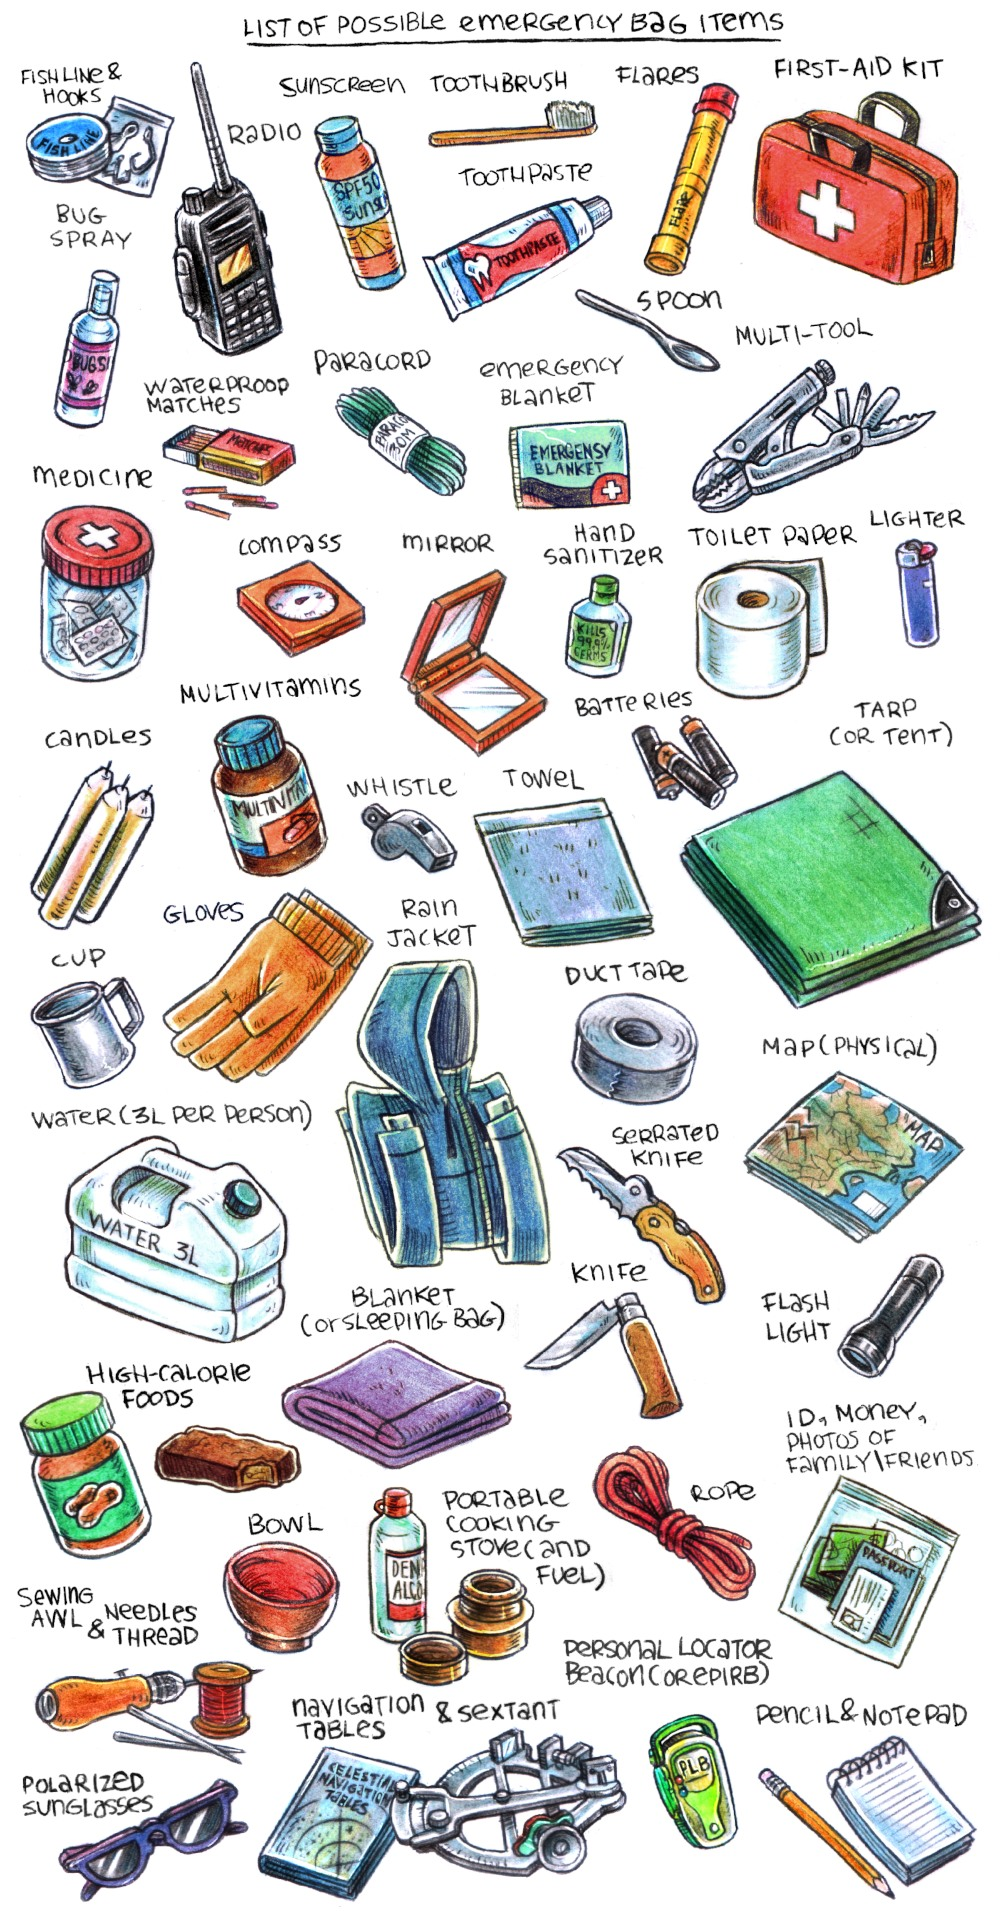
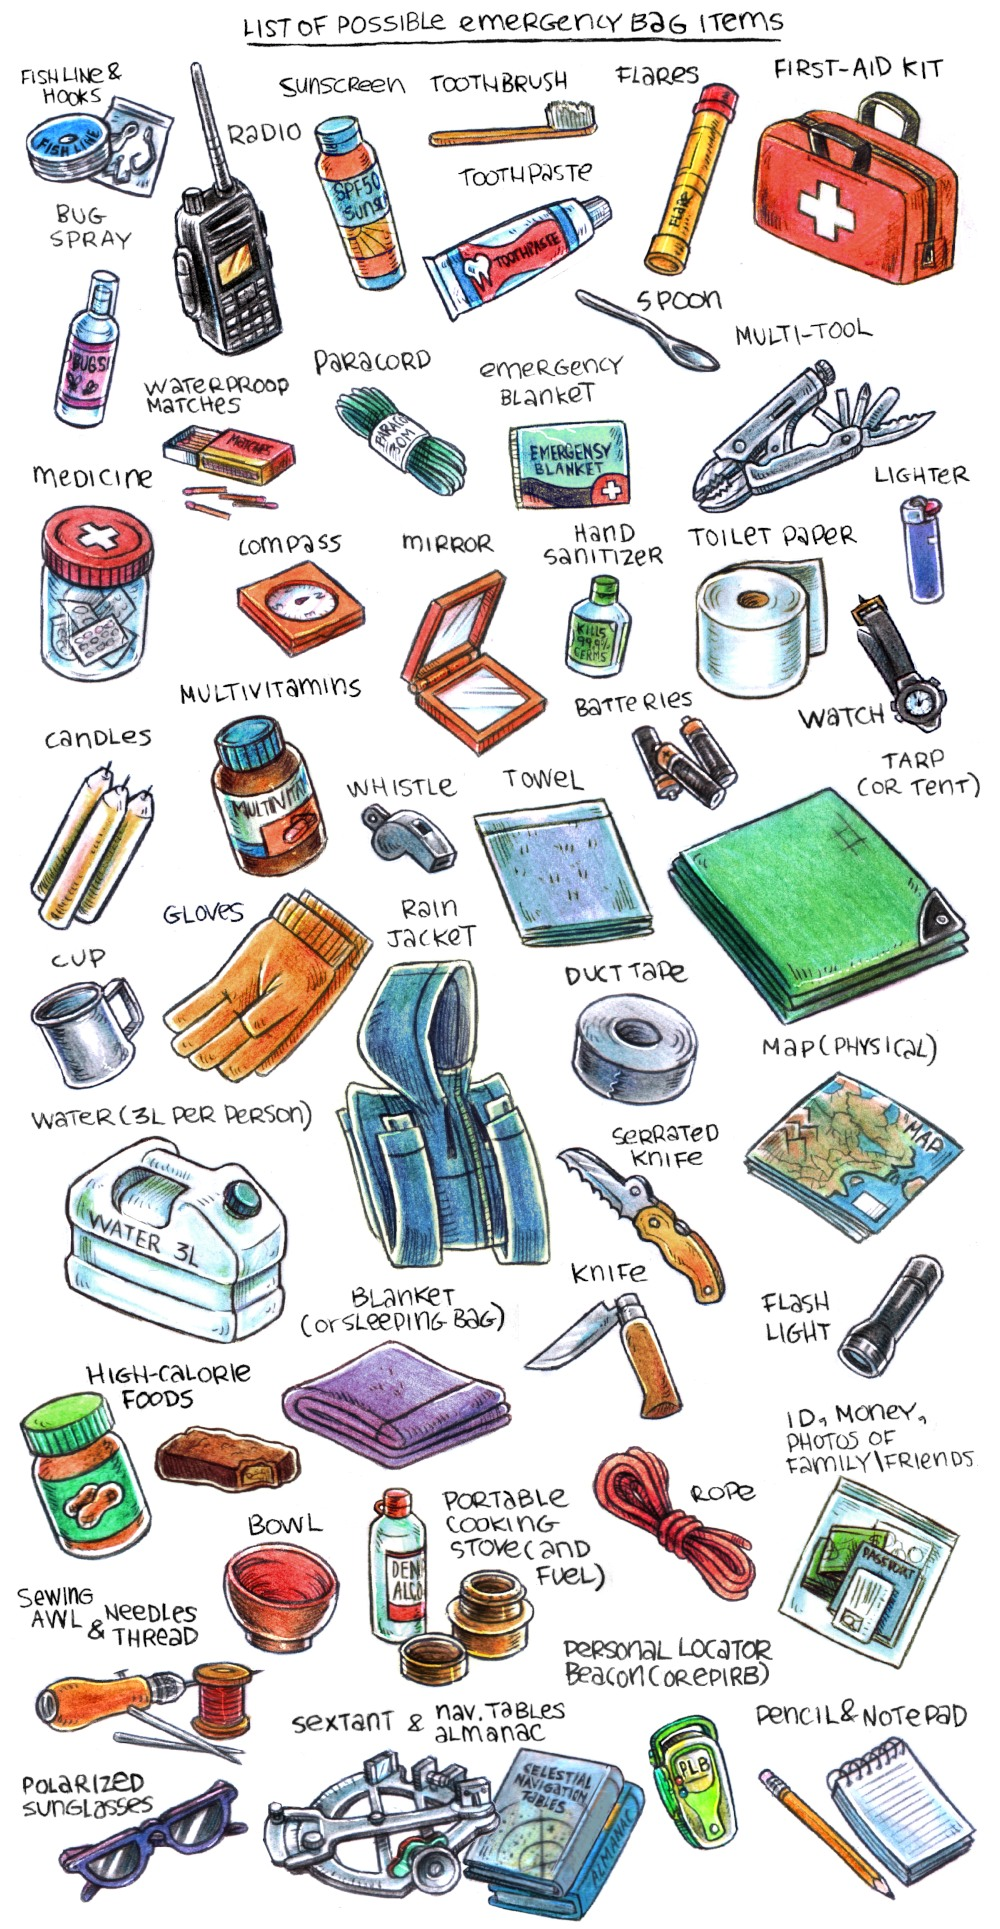
*

diff --git a/site/emergency_bag.html b/site/emergency_bag.html
@@ -31,8 +31,8 @@
         <a style='width: 17%;height: 9%;top: 9%;left: 37%;' href="https://100r.co/site/ditch_bag.html" target="_blank"><span>Ditch Bag</span></a>
         <p class='noprint'>An emergency bag, ditch bag(specific to boats), or "go-bag", contains emergency supplies for when it is necessary to leave the home/vessel in a hurry in the event of a disaster.<br>The bag ought to contain the minimum essentials. What is essential varies per person, and so it is important to pack what you need yourself, considering each item carefully, instead of following a list.<br>Plan for a minimum of 3 days' worth of supplies.<br>How long you need to plan for depends on where you live, if there are evacuation centers nearby, or other dependable places where it is possible to re-supply. (On a boat, planning for longer is necessary).</p>
     </div>
-  <img src='../media/content/emergency_bag.jpg' alt='drawings of examples of items that sometimes come in an emergency bags: Radio, sextant, navigation tables(for sextant), pencil, notepad, stitching awl(and or) needle and thread, polarized sunglasses, flares, fish line and hooks, personal location beacon (and or epirb), sunscreen, toothbrush, toothpaste, first-aid kit, spoon, multi-tool, bug spray, waterproof matches, paracord, emergency blanket, toilet paper, lighter, medicine, compass, mirror, hand sanitizer(or soap), batteries, tarp(or tent), multivitamins, candles, towel, whistle, gloves, rain jacket, duct tape, cup, water(3L per person), map(physical), blanket(or sleeping bag), knife, serrated knife, flashlight, rope, high-calorie foods, bowl, portable cooking stove(and fuel), ID, money, photos of family/friends.' loading ='lazy'>
-  <p class='noprint'>Radio, sextant, navigation tables(for sextant), pencil, notepad, stitching awl(and or) needle and thread, polarized sunglasses, flares, fish line and hooks, personal location beacon (and or epirb), sunscreen, toothbrush, toothpaste, first-aid kit, spoon, multi-tool, bug spray, waterproof matches, paracord, emergency blanket, toilet paper, lighter, medicine, compass, mirror, hand sanitizer(or soap), batteries, tarp(or tent), multivitamins, candles, towel, whistle, gloves, rain jacket, duct tape, cup, water(3L per person), map(physical), blanket(or sleeping bag), knife, serrated knife, flashlight, rope, high-calorie foods, bowl, portable cooking stove(and fuel), ID, money, photos of family/friends.</p>
+  <img src='../media/content/emergency_bag.jpg' alt='drawings of examples of items that sometimes come in an emergency bags: Radio, sextant, navigation tables(for sextant), current almanac(for sextant), pencil, notepad, stitching awl(and or) needle and thread, polarized sunglasses, flares, fish line and hooks, watch, personal location beacon (and or epirb), sunscreen, toothbrush, toothpaste, first-aid kit, spoon, multi-tool, bug spray, waterproof matches, paracord, emergency blanket, toilet paper, lighter, medicine, compass, mirror, hand sanitizer(or soap), batteries, tarp(or tent), multivitamins, candles, towel, whistle, gloves, rain jacket, duct tape, cup, water(3L per person), map(physical), blanket(or sleeping bag), knife, serrated knife, flashlight, rope, high-calorie foods, bowl, portable cooking stove(and fuel), ID, money, photos of family/friends.' loading ='lazy'>
+  <p class='noprint'>Radio, sextant, navigation tables(for sextant), current almanac(for sextant), pencil, notepad, stitching awl(and or) needle and thread, polarized sunglasses, flares, fish line and hooks, watch, personal location beacon (and or epirb), sunscreen, toothbrush, toothpaste, first-aid kit, spoon, multi-tool, bug spray, waterproof matches, paracord, emergency blanket, toilet paper, lighter, medicine, compass, mirror, hand sanitizer(or soap), batteries, tarp(or tent), multivitamins, candles, towel, whistle, gloves, rain jacket, duct tape, cup, water(3L per person), map(physical), blanket(or sleeping bag), knife, serrated knife, flashlight, rope, high-calorie foods, bowl, portable cooking stove(and fuel), ID, money, photos of family/friends.</p>
 <img src='../media/content/emergency_bag_03.jpg' loading ='lazy'>
   <p class='noprint'>Some items ought to be shared by a group, carried in additional bags (ex: cooking stove, bucket toilet etc).<br>A good bag design:<br>1) Keeps your hands free. 2) Distributes the weight in the bag well (on the hips). 3) Is waterproof.<br>Pack the items away, and place the bag near an entrance so that it is possible to grab it quickly when leaving.<br>Store critical items on your person rather than in the bag (identity documents, money, prescription medicine, etc), in case the bag goes missing, or is stolen.</p>
 </main>
